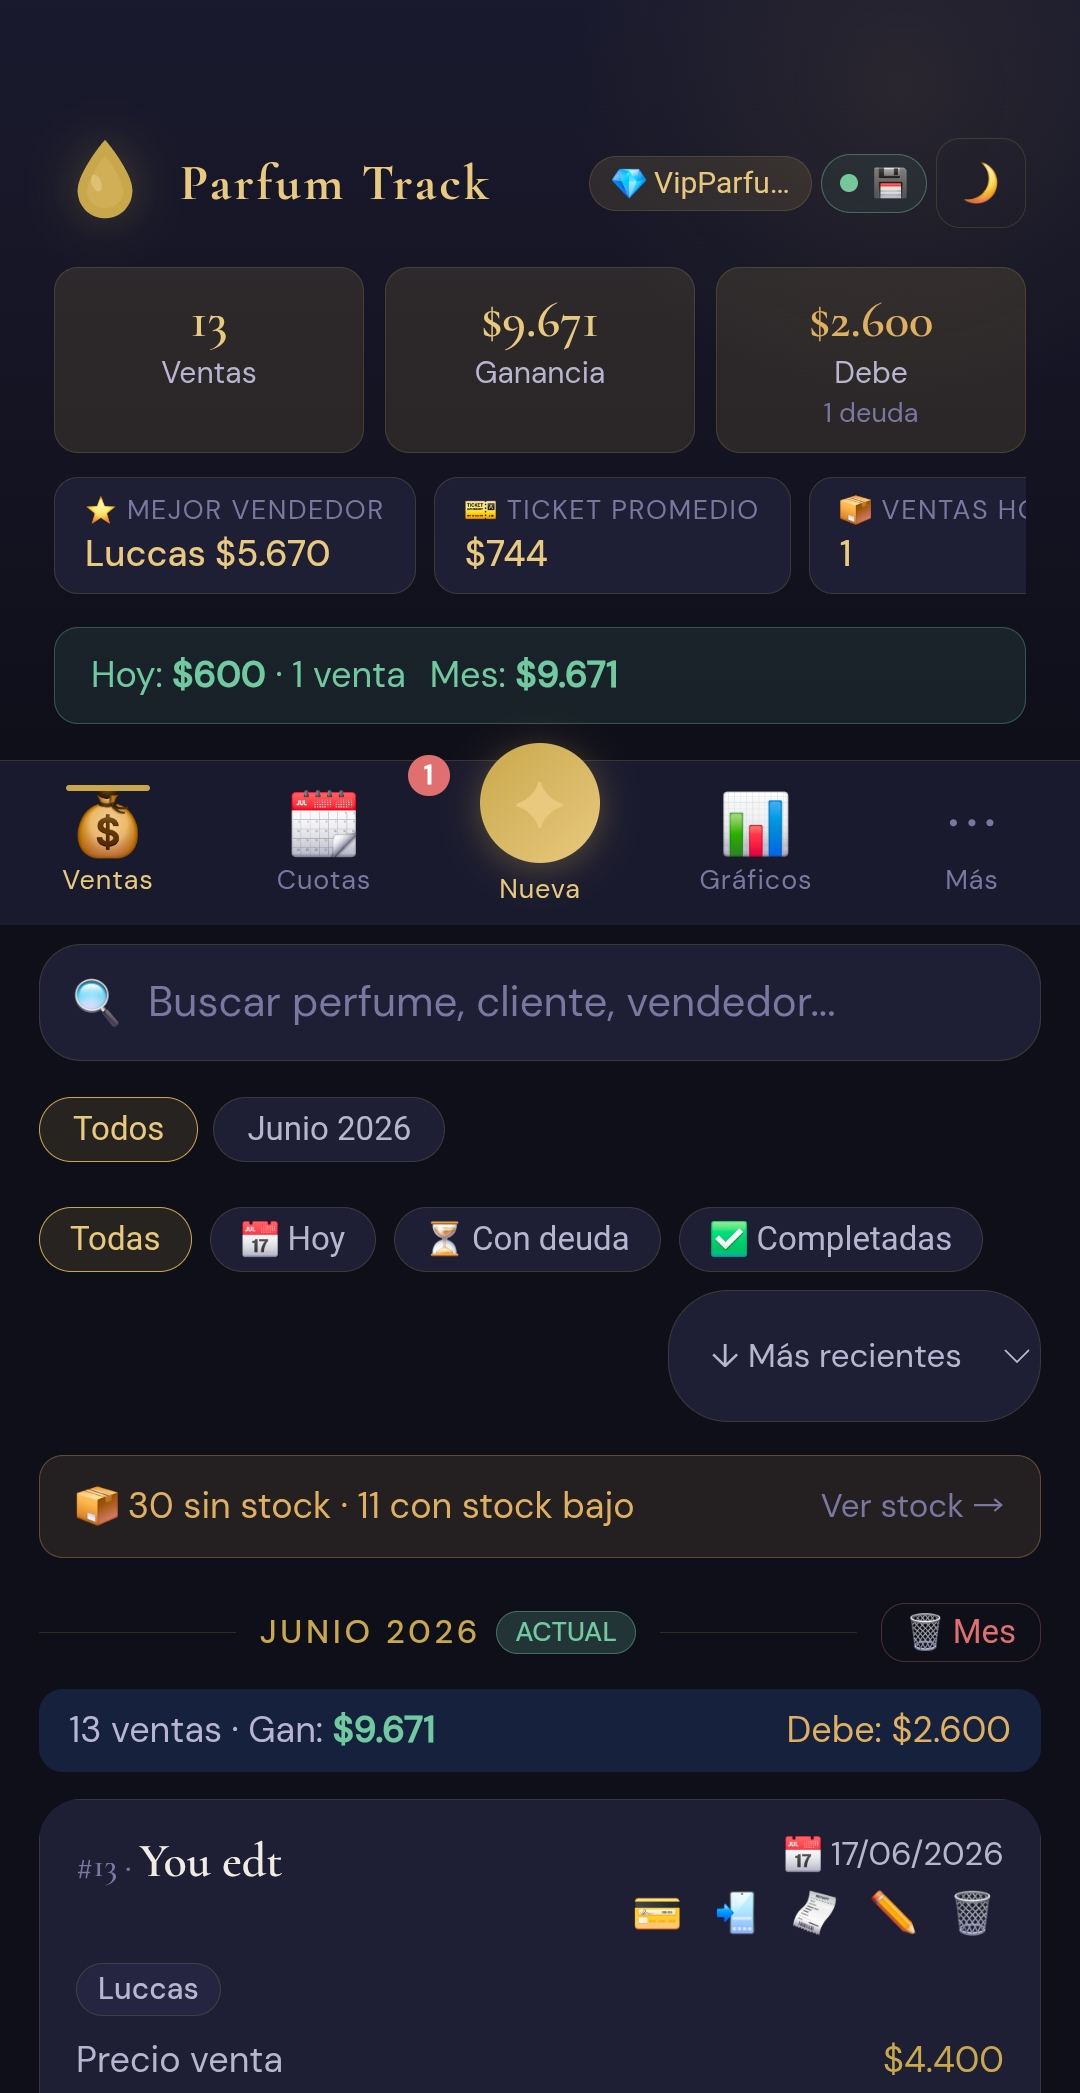
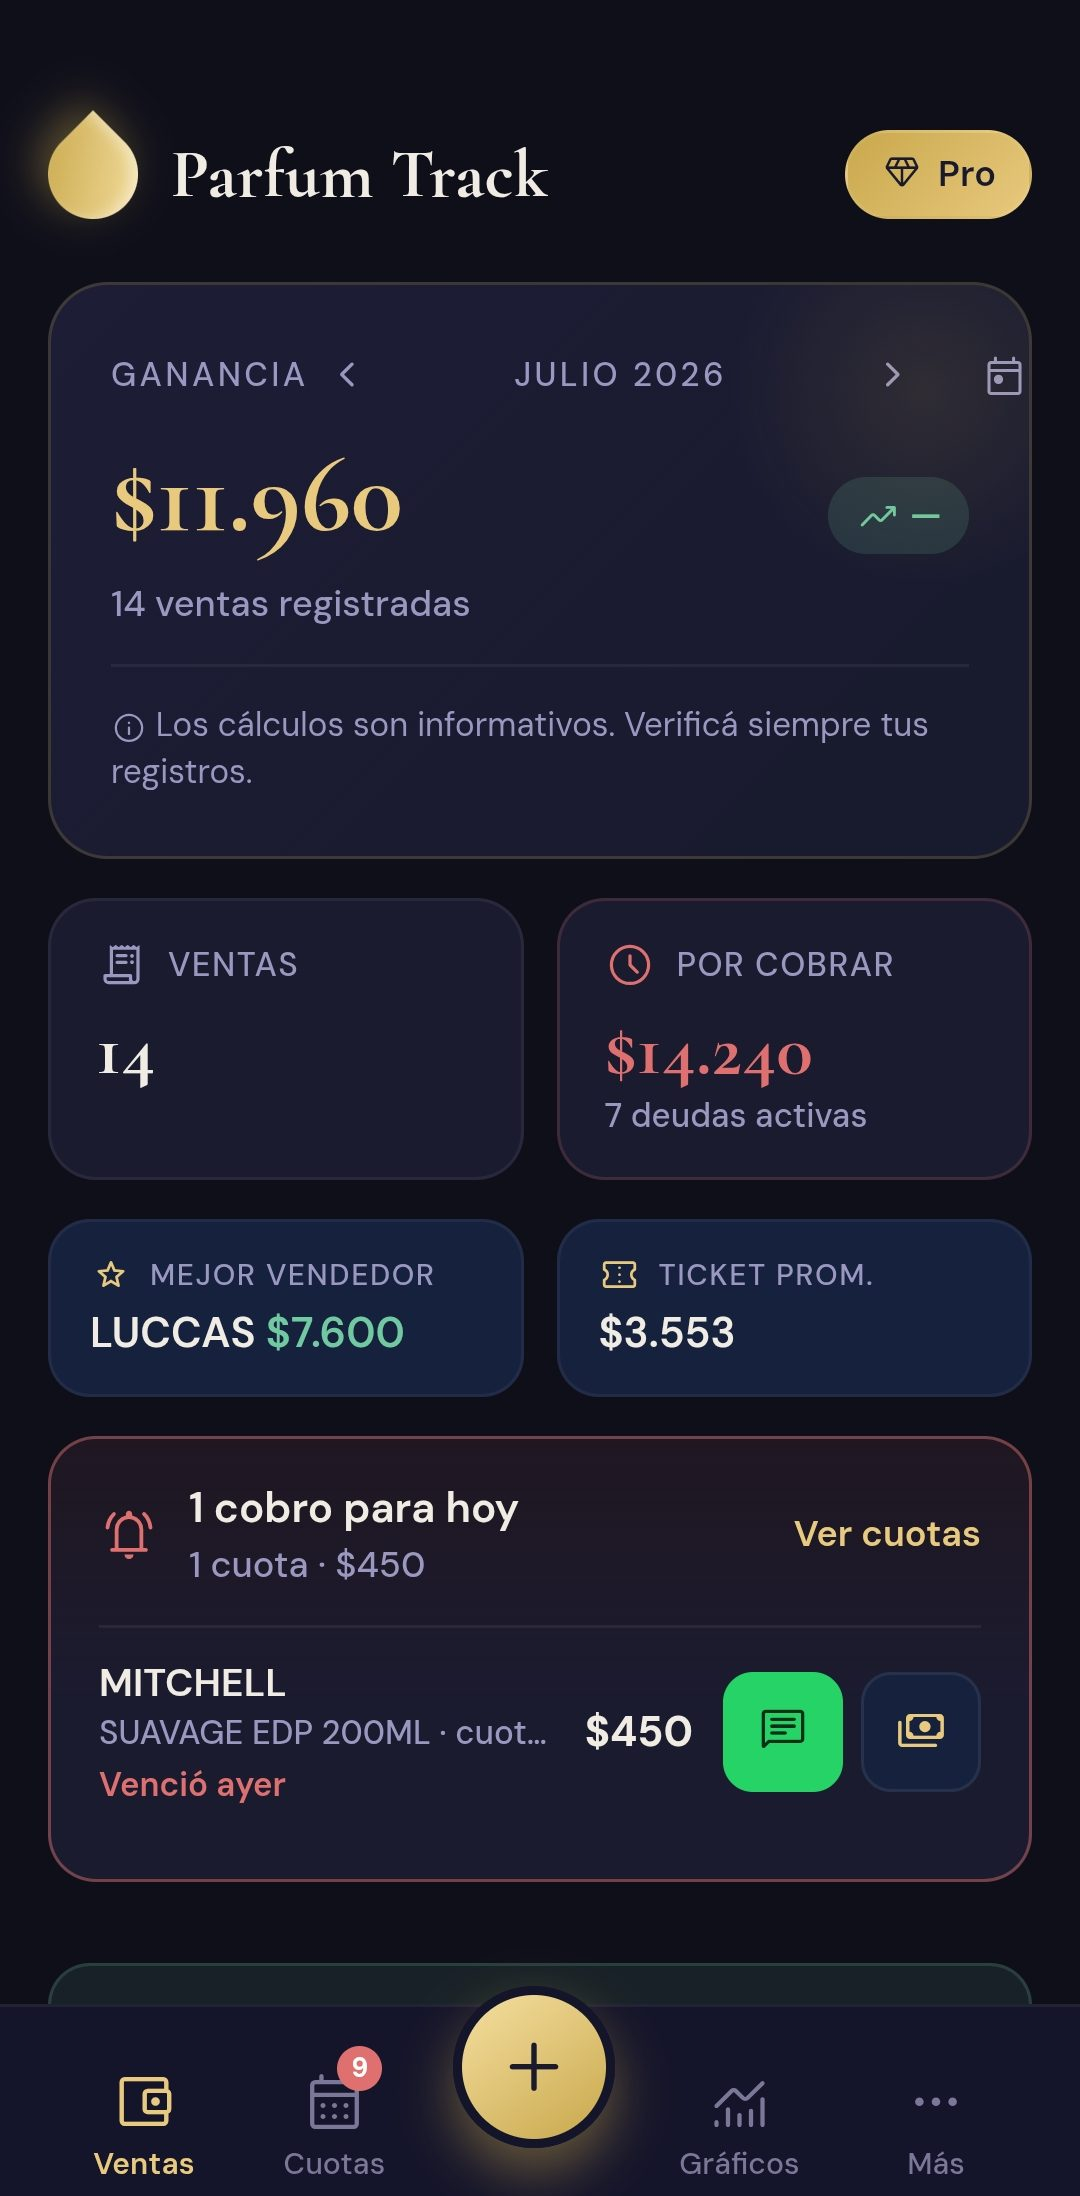
Capturas nuevas de la app en la landing y el manifest
Reemplaza dashboard, catálogo y estadísticas por las capturas nuevas. La del
recordatorio de cobro por WhatsApp queda como estaba.

Las tres venían en 1080x2196. Se reencodearon con canvas (no hay ImageMagick ni
Pillow acá): las JPG a 1080 de ancho y el WebP del hero a 720, que es lo que
declara el tag. De paso bajó el peso: screenshot-app.jpg de 521 a 136 KB y
catálogo de 294 a 158 KB.

Los tres cambiaron de proporción —estadísticas era 1080x1213, casi cuadrada, y
ahora es vertical— así que se actualizaron los width/height del HTML y los
"sizes" del manifest. Si no, el navegador reserva el espacio equivocado y la
página salta cuando la imagen carga.

Aprovechando eso apareció que img/whatsapp-cobro.jpg declaraba 1080x1231 y el
archivo son 1080x1144: mismo problema, ya venía de antes. Corregido.

Las tarjetas flotantes del hero decían $35.600 y $9.800 con "↑18% vs mayo", que
además de inventado ahora quedaba encima de una captura que dice $11.960 y
$14.240. Se superponen a la imagen, así que si dicen otra cosa la composición
se contradice sola. Ahora repiten lo que muestra la captura.

El test nuevo compara la proporción declarada en cada <img> contra la que tiene
el archivo de verdad, y los "sizes" del manifest contra los archivos. Se
verificó al revés: con las dimensiones viejas falla.

Peso de la landing: 286 KB la primera carga en móvil, 738 KB la página entera
scrolleada (el video sigue sin bajarse hasta que lo tocás).

692 tests pasan.
[…]

diff --git a/landing.html b/landing.html
@@ -1514,18 +1514,21 @@ footer {
   <div class="hero-visual">
     <div class="hero-visual-glow"></div>
     <div class="hero-screenshot-wrap">
-      <img src="/screenshot-app.webp" alt="Parfum Track — vista real de la app" width="720" height="1395" loading="eager" fetchpriority="high">
+      <img src="/screenshot-app.webp" alt="Parfum Track — vista real de la app" width="720" height="1464" loading="eager" fetchpriority="high">
     </div>
     <div class="hero-floating-cards-wrap">
+      <!-- Estos números tienen que coincidir con los de la captura de atrás: las tarjetas
+           se le superponen, y si dicen otra cosa la composición se contradice sola.
+           Al cambiar `screenshot-app.webp` hay que actualizarlos. -->
       <div class="hero-floating-card hfc-left">
         <div class="hfc-label">Ganancia este mes</div>
-        <div class="hfc-value">$35.600</div>
-        <div class="hfc-sub">↑ 18% vs mayo</div>
+        <div class="hfc-value">$11.960</div>
+        <div class="hfc-sub">14 ventas registradas</div>
       </div>
       <div class="hero-floating-card hfc-right">
-        <div class="hfc-label">Cuotas pendientes</div>
-        <div class="hfc-value">$9.800</div>
-        <div class="hfc-sub">3 clientes · WA listo</div>
+        <div class="hfc-label">Por cobrar</div>
+        <div class="hfc-value">$14.240</div>
+        <div class="hfc-sub">7 deudas activas</div>
       </div>
     </div>
   </div>
@@ -1693,7 +1696,7 @@ footer {
       </div>
       <div class="feature-visual reveal reveal-d1">
         <div class="feature-mockup" style="padding:0;overflow:hidden;">
-          <img src="/screenshot-catalogo.jpg" alt="Catálogo de perfumes real generado con Parfum Track" width="1763" height="2048" loading="lazy" style="display:block;width:100%;height:auto;border-radius:16px;">
+          <img src="/screenshot-catalogo.jpg" alt="Catálogo de perfumes real generado con Parfum Track" width="1080" height="2196" loading="lazy" style="display:block;width:100%;height:auto;border-radius:16px;">
         </div>
       </div>
     </div>
@@ -1720,7 +1723,7 @@ footer {
       </div>
       <div class="feature-visual reveal reveal-d1">
         <div style="max-width:340px;margin:0 auto;border-radius:18px;overflow:hidden;box-shadow:0 8px 40px rgba(0,0,0,0.5),0 0 0 1px rgba(201,168,76,0.15);">
-          <img src="/img/whatsapp-cobro.jpg" alt="Recordatorio de cobro por WhatsApp — ejemplo real" width="1080" height="1231" style="width:100%;height:auto;display:block;" loading="lazy">
+          <img src="/img/whatsapp-cobro.jpg" alt="Recordatorio de cobro por WhatsApp — ejemplo real" width="1080" height="1144" style="width:100%;height:auto;display:block;" loading="lazy">
         </div>
       </div>
     </div>
@@ -1746,7 +1749,7 @@ footer {
       </div>
       <div class="feature-visual reveal reveal-d1">
         <div class="feature-mockup" style="padding:0;overflow:hidden;">
-          <img src="/screenshot-estadisticas.jpg" alt="Estadísticas reales de Parfum Track — ganancia por mes, ticket promedio, margen" width="1080" height="1213" loading="lazy" style="display:block;width:100%;height:auto;border-radius:16px;">
+          <img src="/screenshot-estadisticas.jpg" alt="Estadísticas reales de Parfum Track — ganancia por mes, ticket promedio, margen" width="1080" height="2196" loading="lazy" style="display:block;width:100%;height:auto;border-radius:16px;">
         </div>
       </div>
     </div>

diff --git a/tests/landing-contenido.test.js b/tests/landing-contenido.test.js
@@ -116,6 +116,76 @@ describe('la landing no le quema los datos móviles al visitante', () => {
   });
 });
 
+/** Lee el ancho y alto reales de un JPEG o un WebP, sin dependencias. */
+function dimensiones(rel) {
+  const d = readFileSync(path.join(root, rel));
+  if (d[0] === 0xff && d[1] === 0xd8) {
+    // JPEG: recorrer los marcadores hasta el SOF, que trae alto y ancho.
+    let i = 2;
+    while (i < d.length - 9) {
+      if (d[i] !== 0xff) { i++; continue; }
+      const m = d[i + 1];
+      if (m >= 0xc0 && m <= 0xcf && ![0xc4, 0xc8, 0xcc].includes(m)) {
+        return { w: d.readUInt16BE(i + 7), h: d.readUInt16BE(i + 5) };
+      }
+      i += 2 + d.readUInt16BE(i + 2);
+    }
+  }
+  if (d.slice(0, 4).toString() === 'RIFF' && d.slice(8, 12).toString() === 'WEBP') {
+    const fmt = d.slice(12, 16).toString();
+    if (fmt === 'VP8 ') return { w: d.readUInt16LE(26) & 0x3fff, h: d.readUInt16LE(28) & 0x3fff };
+    if (fmt === 'VP8L') {
+      const b = d.readUInt32LE(21);
+      return { w: (b & 0x3fff) + 1, h: ((b >> 14) & 0x3fff) + 1 };
+    }
+    if (fmt === 'VP8X') return { w: (d.readUIntLE(24, 3) & 0xffffff) + 1, h: (d.readUIntLE(27, 3) & 0xffffff) + 1 };
+  }
+  throw new Error('no se pudo leer el tamaño de ' + rel);
+}
+
+describe('las capturas declaran el tamaño que realmente tienen', () => {
+  // Un width/height mal declarado reserva el espacio equivocado y la página salta cuando
+  // la imagen carga (CLS). Ya pasó con img/whatsapp-cobro.jpg: decía 1231 y son 1144.
+  const tags = landing.match(/<img\b[^>]*>/g) || [];
+
+  it.each(
+    tags
+      .map((t) => ({
+        tag: t,
+        src: (t.match(/src=["']\/([^"']+)["']/) || [])[1],
+        w: Number((t.match(/width=["'](\d+)["']/) || [])[1]),
+        h: Number((t.match(/height=["'](\d+)["']/) || [])[1]),
+      }))
+      .filter((x) => x.src && x.w && x.h && /\.(jpe?g|webp|png)$/.test(x.src))
+      .map((x) => [x.src, x.w, x.h])
+  )('%s declara %ix%i y el archivo coincide en proporción', (src, w, h) => {
+    const real = dimensiones(src);
+    const declarada = w / h;
+    const verdadera = real.w / real.h;
+    expect(
+      Math.abs(declarada - verdadera),
+      `${src}: declara ${w}x${h} (${declarada.toFixed(3)}) pero el archivo es ` +
+        `${real.w}x${real.h} (${verdadera.toFixed(3)}). Corregí width/height o la página va a saltar al cargar.`
+    ).toBeLessThan(0.01);
+  });
+
+  it('manifest.json declara el tamaño real de cada captura', () => {
+    const manifest = JSON.parse(readFileSync(path.join(root, 'manifest.json'), 'utf8'));
+    for (const s of manifest.screenshots || []) {
+      const real = dimensiones(s.src.replace(/^\//, ''));
+      expect(s.sizes, `${s.src} en manifest.json`).toBe(`${real.w}x${real.h}`);
+    }
+  });
+
+  it('las capturas de la landing no pesan de más', () => {
+    for (const rel of ['screenshot-app.webp', 'screenshot-catalogo.jpg',
+                       'screenshot-estadisticas.jpg', 'img/whatsapp-cobro.jpg']) {
+      const kb = readFileSync(path.join(root, rel)).length / 1024;
+      expect(kb, `${rel} pesa ${kb.toFixed(0)} KB`).toBeLessThan(300);
+    }
+  });
+});
+
 describe('la landing usa la tipografía de la marca', () => {
   it.each([
     ['styles/03-hero.css', '.hero h1'],

diff --git a/src/landing/sections/02-hero.html b/src/landing/sections/02-hero.html
@@ -46,18 +46,21 @@
   <div class="hero-visual">
     <div class="hero-visual-glow"></div>
     <div class="hero-screenshot-wrap">
-      <img src="/screenshot-app.webp" alt="Parfum Track — vista real de la app" width="720" height="1395" loading="eager" fetchpriority="high">
+      <img src="/screenshot-app.webp" alt="Parfum Track — vista real de la app" width="720" height="1464" loading="eager" fetchpriority="high">
     </div>
     <div class="hero-floating-cards-wrap">
+      <!-- Estos números tienen que coincidir con los de la captura de atrás: las tarjetas
+           se le superponen, y si dicen otra cosa la composición se contradice sola.
+           Al cambiar `screenshot-app.webp` hay que actualizarlos. -->
       <div class="hero-floating-card hfc-left">
         <div class="hfc-label">Ganancia este mes</div>
-        <div class="hfc-value">$35.600</div>
-        <div class="hfc-sub">↑ 18% vs mayo</div>
+        <div class="hfc-value">$11.960</div>
+        <div class="hfc-sub">14 ventas registradas</div>
       </div>
       <div class="hero-floating-card hfc-right">
-        <div class="hfc-label">Cuotas pendientes</div>
-        <div class="hfc-value">$9.800</div>
-        <div class="hfc-sub">3 clientes · WA listo</div>
+        <div class="hfc-label">Por cobrar</div>
+        <div class="hfc-value">$14.240</div>
+        <div class="hfc-sub">7 deudas activas</div>
       </div>
     </div>
   </div>

diff --git a/src/landing/sections/07-features.html b/src/landing/sections/07-features.html
@@ -14,7 +14,7 @@
       </div>
       <div class="feature-visual reveal reveal-d1">
         <div style="max-width:340px;margin:0 auto;border-radius:18px;overflow:hidden;box-shadow:0 8px 40px rgba(0,0,0,0.5),0 0 0 1px rgba(201,168,76,0.15);">
-          <img src="/img/whatsapp-cobro.jpg" alt="Recordatorio de cobro por WhatsApp — ejemplo real" width="1080" height="1231" style="width:100%;height:auto;display:block;" loading="lazy">
+          <img src="/img/whatsapp-cobro.jpg" alt="Recordatorio de cobro por WhatsApp — ejemplo real" width="1080" height="1144" style="width:100%;height:auto;display:block;" loading="lazy">
         </div>
       </div>
     </div>
@@ -40,7 +40,7 @@
       </div>
       <div class="feature-visual reveal reveal-d1">
         <div class="feature-mockup" style="padding:0;overflow:hidden;">
-          <img src="/screenshot-estadisticas.jpg" alt="Estadísticas reales de Parfum Track — ganancia por mes, ticket promedio, margen" width="1080" height="1213" loading="lazy" style="display:block;width:100%;height:auto;border-radius:16px;">
+          <img src="/screenshot-estadisticas.jpg" alt="Estadísticas reales de Parfum Track — ganancia por mes, ticket promedio, margen" width="1080" height="2196" loading="lazy" style="display:block;width:100%;height:auto;border-radius:16px;">
         </div>
       </div>
     </div>

diff --git a/src/landing/sections/06-funciones.html b/src/landing/sections/06-funciones.html
@@ -17,7 +17,7 @@
       </div>
       <div class="feature-visual reveal reveal-d1">
         <div class="feature-mockup" style="padding:0;overflow:hidden;">
-          <img src="/screenshot-catalogo.jpg" alt="Catálogo de perfumes real generado con Parfum Track" width="1763" height="2048" loading="lazy" style="display:block;width:100%;height:auto;border-radius:16px;">
+          <img src="/screenshot-catalogo.jpg" alt="Catálogo de perfumes real generado con Parfum Track" width="1080" height="2196" loading="lazy" style="display:block;width:100%;height:auto;border-radius:16px;">
         </div>
       </div>
     </div>
